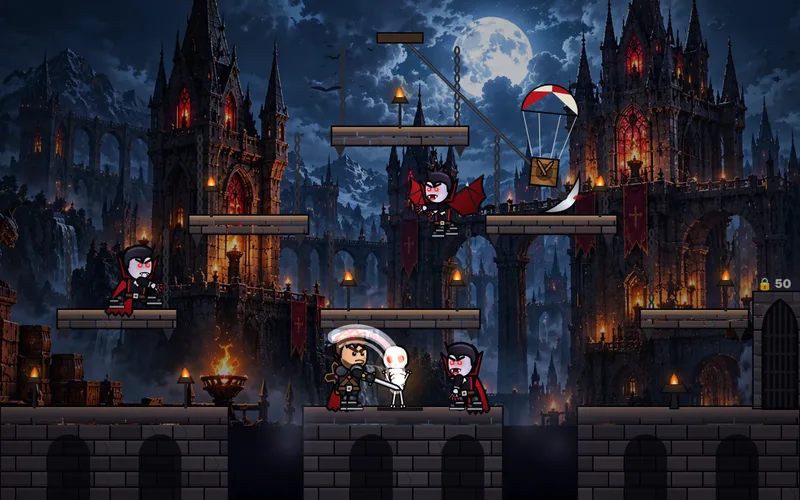
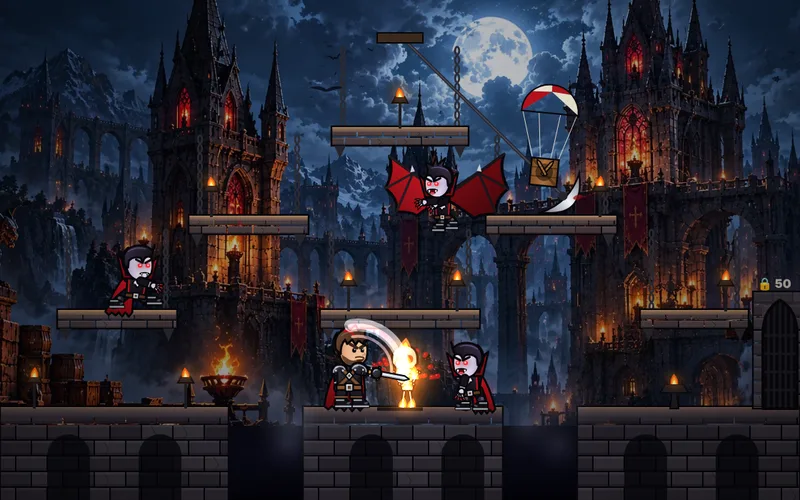
Vampyrium: cazador como la referencia, cartel de armas grande con pausa y muertes con fuego y sangre
- El cazador sin la cruz y más parecido a la referencia: hombreras grandes redondas con remaches, cuello
  alto, correas cruzadas con broche, cinturón ancho con hebilla grande, faldones de cuero, capa ancha y
  postura firme con las piernas abiertas
- Brazos de dos partes (hombro, codo y puño): el de atrás cuelga al costado con el puño cerrado y el del
  arma lleva el puño adelante con la espada para arriba; el corte baja desde atrás-arriba
- El cartel de armas es grande, dice "Juego en pausa" y oscurece todo
- El panel dice "Vampiros: N" y abajo "Vampiros voladores: N"
- Alas de los voladores más grandes; salen parejos vampiros y voladores
- Al morir: se vuelve esqueleto, se prende fuego y revienta: los huesos salen disparados prendidos fuego y
  la sangre salpica y queda manchando el piso

Claude-Session: https://claude.ai/code/session_01RzPWDgS2xZYFJ1nCwqQbRH

Changed region(s): [[0.4062, 0.63, 0.625, 0.84], [0.4688, 0.3, 0.6562, 0.48]]

diff --git a/src/features/games/vampyriumArt.ts b/src/features/games/vampyriumArt.ts
@@ -2,7 +2,7 @@
 // el borde de abajo de la pantalla es y = 0. Los personajes se dibujan en "puntos de diseño": 100 de alto con los
 // pies en 0 (y para arriba negativo, como el lienzo), al estilo chibi de las referencias: cabeza grande, contorno
 // oscuro grueso y sombreado de dos tonos.
-import { DOOR, GAPS, GROUND_Y, H, PLAYER_H, POWER_MAX, SURFACES, TRAPS, W, trapState, type Bone, type Corpse, type Crate, type Game, type Player, type Stake, type Vamp, type Weapon } from './vampyrium';
+import { DOOR, GAPS, GROUND_Y, H, PLAYER_H, SURFACES, TRAPS, W, trapState, BURN_AT, BLOW_AT, type Bone, type Corpse, type Crate, type Game, type Player, type Stake, type Vamp, type Weapon } from './vampyrium';
 
 const TAU = Math.PI * 2;
 const BIG = 1.3; // los personajes se dibujan más grandes que su caja de choque (la cabezota chibi)
@@ -65,101 +65,94 @@ function drawStakeItem(ctx: CanvasRenderingContext2D, len = 24) {
   blob(ctx, lin(ctx, -3, 0, 3, 0, [[0, '#6b4220'], [0.5, '#b07a45'], [1, '#5a3618']]), 2, () => { ctx.moveTo(-2.8, 6); ctx.lineTo(-2.8, -len + 7); ctx.lineTo(0, -len); ctx.lineTo(2.8, -len + 7); ctx.lineTo(2.8, 6); ctx.closePath(); });
   ctx.strokeStyle = 'rgba(40,20,8,0.6)'; ctx.lineWidth = 1; for (let i = 0; i < 3; i++) { ctx.beginPath(); ctx.moveTo(-2.4, 2 - i * 6); ctx.lineTo(2.4, 0 - i * 6); ctx.stroke(); }
 }
-function drawCross(ctx: CanvasRenderingContext2D, power: number, t: number) {
-  // la cruz negra con borde dorado encendido y una gema roja en el centro
-  const lit = 0.55 + 0.45 * power;
-  if (power >= 1) glow(ctx, 0, -14, 34, `rgba(255,190,90,${0.55 + 0.25 * Math.sin(t * 8)})`);
-  ctx.save();
-  ctx.shadowColor = '#ff9a3c'; ctx.shadowBlur = 0;
-  const path = () => { ctx.moveTo(-2.6, 6); ctx.lineTo(-2.6, -8); ctx.lineTo(-10, -8); ctx.lineTo(-12, -11); ctx.lineTo(-10, -14); ctx.lineTo(-2.6, -14); ctx.lineTo(-2.6, -22); ctx.lineTo(0, -25); ctx.lineTo(2.6, -22); ctx.lineTo(2.6, -14); ctx.lineTo(10, -14); ctx.lineTo(12, -11); ctx.lineTo(10, -8); ctx.lineTo(2.6, -8); ctx.lineTo(2.6, 6); ctx.closePath(); };
-  ctx.beginPath(); path(); ctx.lineWidth = 6; ctx.strokeStyle = INK; ctx.stroke();
-  ctx.lineWidth = 2.6; ctx.strokeStyle = `rgba(255,${150 + 60 * lit},${60 + 40 * lit},${lit})`; ctx.stroke();
-  ctx.fillStyle = '#16141b'; ctx.fill();
-  ctx.fillStyle = '#e0313a'; ctx.beginPath(); ctx.moveTo(0, -14); ctx.lineTo(2.4, -11); ctx.lineTo(0, -8); ctx.lineTo(-2.4, -11); ctx.closePath(); ctx.fill();
+// Brazo de dos partes (hombro → codo → puño). Ángulos desde la vertical: 0 colgando, + hacia adelante, π arriba.
+// Manga negra con correa de cuero, guantelete con bandas de metal y el puño grande cerrado.
+function hunterArm(ctx: CanvasRenderingContext2D, sx: number, sy: number, a1: number, a2: number, item: Weapon | 'none', itemA: number, dark = false) {
+  const L1 = 13, L2 = 13, ex = sx + Math.sin(a1) * L1, ey = sy + Math.cos(a1) * L1, hx = ex + Math.sin(a2) * L2, hy = ey + Math.cos(a2) * L2;
+  limb(ctx, sx, sy, ex, ey, 10, dark ? '#131317' : HUNTER.armor);
+  // correa de cuero en el brazo
+  ctx.save(); ctx.translate((sx + ex) / 2, (sy + ey) / 2); ctx.rotate(-a1); blob(ctx, HUNTER.strap, 1.6, () => ctx.roundRect(-6, -1.6, 12, 3.2, 1)); ctx.restore();
+  // guantelete: antebrazo ancho con bandas de metal
+  ctx.save(); ctx.translate(ex, ey); ctx.rotate(-a2);
+  blob(ctx, lin(ctx, -7, 0, 7, 0, [[0, '#2c2c34'], [0.5, '#4a4a56'], [1, '#1a1a20']]), 2.6, () => { ctx.moveTo(-5, 0); ctx.lineTo(5, 0); ctx.lineTo(7.5, L2 - 1); ctx.lineTo(-7.5, L2 - 1); ctx.closePath(); });
+  for (const by of [3.5, 8.5]) { ctx.fillStyle = '#b9bcc8'; ctx.fillRect(-6.2 - by * 0.12, by, 12.4 + by * 0.24, 1.8); }
   ctx.restore();
+  // el arma (empuñada en el puño)
+  if (item !== 'none') { ctx.save(); ctx.translate(hx, hy); ctx.rotate(itemA); if (item === 'sword') drawSword(ctx); else drawStakeItem(ctx); ctx.restore(); }
+  // puño
+  blob(ctx, lin(ctx, hx - 7, hy - 7, hx + 7, hy + 7, [[0, '#45454f'], [1, '#141418']]), 2.6, () => ctx.ellipse(hx, hy, 7.6, 7, -a2, 0, TAU));
+  ctx.strokeStyle = 'rgba(210,214,224,0.75)'; ctx.lineWidth = 1.4; ctx.beginPath(); ctx.arc(hx, hy, 4.6, -a2 + 0.2 - Math.PI / 2, -a2 + 1.6 - Math.PI / 2); ctx.stroke();
 }
-// El brazo que ataca: ángulo del brazo (0 = colgando, + adelante) y lo que tiene en la mano.
-function hunterArm(ctx: CanvasRenderingContext2D, sx: number, sy: number, a: number, item: Weapon | 'none', itemA: number) {
-  const L = 21, hx = sx + Math.sin(a) * L, hy = sy + Math.cos(a) * L;
-  limb(ctx, sx, sy, hx, hy, 9.5, HUNTER.armor);
-  // brazal de metal
-  const mx = sx + Math.sin(a) * L * 0.6, my = sy + Math.cos(a) * L * 0.6;
-  ctx.save(); ctx.translate(mx, my); ctx.rotate(-a);
-  blob(ctx, HUNTER.metal, 2, () => ctx.roundRect(-6, -3.5, 12, 7, 2));
-  ctx.restore();
-  ctx.save(); ctx.translate(hx, hy); ctx.rotate(itemA);
-  if (item === 'sword') drawSword(ctx); else if (item === 'stakes') drawStakeItem(ctx);
-  ctx.restore();
-  blob(ctx, '#232229', 2.5, () => ctx.arc(hx, hy, 6.2, 0, TAU)); // el guante
-  ctx.fillStyle = 'rgba(255,255,255,0.2)'; ctx.beginPath(); ctx.arc(hx - 1.5, hy - 2, 2, 0, TAU); ctx.fill();
+function pauldron(ctx: CanvasRenderingContext2D, x: number, y: number, rx: number, ry: number, rot: number) {
+  blob(ctx, lin(ctx, x - rx, y - ry, x + rx, y + ry, [[0, '#5c5c68'], [0.45, '#25252c'], [1, '#0e0e12']]), 3, () => ctx.ellipse(x, y, rx, ry, rot, Math.PI * 0.95, Math.PI * 2.05));
+  ctx.strokeStyle = '#a9acb8'; ctx.lineWidth = 1.8; ctx.beginPath(); ctx.ellipse(x, y + 1, rx - 2.5, ry - 2.5, rot, Math.PI * 1.05, Math.PI * 1.95); ctx.stroke();
+  ctx.fillStyle = '#c4c7d2'; for (const k of [-0.45, 0.45]) { ctx.beginPath(); ctx.arc(x + rx * k, y - ry * 0.05, 1.5, 0, TAU); ctx.fill(); } // remaches
+  ctx.fillStyle = 'rgba(255,255,255,0.35)'; ctx.beginPath(); ctx.ellipse(x - rx * 0.35, y - ry * 0.55, rx * 0.28, ry * 0.16, -0.4, 0, TAU); ctx.fill();
 }
 export function drawHunter(ctx: CanvasRenderingContext2D, p: Player, g: Game, t: number) {
   const moving = Math.abs(p.vx) > 0.6 && p.onGround, air = !p.onGround;
   const w = p.walkT * Math.PI;
   const swing = moving ? Math.sin(w) : 0;
-  const bob = moving ? Math.abs(Math.cos(w)) * 2.2 : Math.sin(t * 2.4) * 0.8;
+  const bob = moving ? Math.abs(Math.cos(w)) * 2.2 : Math.sin(t * 2.4) * 0.7;
   const squash = p.landT > 0 ? 1 - p.landT * 0.6 : 1;
-  ctx.save(); ctx.scale(1, squash); ctx.translate(0, air ? 0 : -bob + 2);
-  // capa (atrás): flamea con la velocidad
-  const fl = Math.sin(t * 7 + p.x) * 3 + Math.min(14, Math.abs(p.vx) * 1.6) + (air ? 6 : 0), lift = air ? (p.vy > 0 ? 8 : -6) : 0;
-  blob(ctx, lin(ctx, 0, -56, -30, 0, [[0, HUNTER.cape], [1, HUNTER.capeD]]), 3, () => {
-    ctx.moveTo(-8, -56); ctx.quadraticCurveTo(-22 - fl * 0.6, -36 - lift, -30 - fl, -4 - lift * 0.6);
-    for (let i = 0; i < 4; i++) { const x0 = -30 - fl + i * (8 + fl * 0.22); ctx.quadraticCurveTo(x0 + 4, 4 - lift * 0.5 + (i % 2) * 3, x0 + 8 + fl * 0.22, -2 - lift * 0.4); }
-    ctx.lineTo(4, -10); ctx.lineTo(8, -54); ctx.closePath();
+  ctx.save(); ctx.scale(1, squash); ctx.translate(0, air ? 0 : -bob + 1);
+  // capa ancha (se ve a los dos costados del cuerpo), flamea con la velocidad
+  const fl = Math.sin(t * 6 + p.x) * 2.5 + Math.min(14, Math.abs(p.vx) * 1.6) + (air ? 6 : 0), lift = air ? (p.vy > 0 ? 8 : -6) : 0;
+  blob(ctx, lin(ctx, 0, -60, -20, 0, [[0, HUNTER.cape], [1, HUNTER.capeD]]), 3, () => {
+    ctx.moveTo(-14, -62); ctx.quadraticCurveTo(-30 - fl * 0.5, -40 - lift, -36 - fl, -4 - lift * 0.6);
+    const n = 5;
+    for (let i = 0; i < n; i++) { const x0 = -36 - fl + i * (58 + fl) / n, x1 = -36 - fl + (i + 1) * (58 + fl) / n; ctx.lineTo((x0 + x1) / 2, 2 - lift * 0.4 + Math.sin(t * 5 + i) * 1.5); ctx.lineTo(x1, -4 - lift * 0.4); }
+    ctx.quadraticCurveTo(26, -30, 18, -62); ctx.closePath();
   });
-  // brazo de atrás con la cruz
-  const backA = air ? -0.9 : -0.25 - swing * 0.5;
-  {
-    const sx = -9, sy = -52, L = 20, hx = sx + Math.sin(backA) * L, hy = sy + Math.cos(backA) * L;
-    limb(ctx, sx, sy, hx, hy, 9, '#141418');
-    ctx.save(); ctx.translate(hx, hy); ctx.rotate(-backA * 0.3 - 0.25); ctx.scale(1.35, 1.35); drawCross(ctx, g.power / POWER_MAX, t); ctx.restore();
-    blob(ctx, '#1a191f', 2.5, () => ctx.arc(hx, hy, 5.8, 0, TAU));
+  ctx.fillStyle = 'rgba(40,0,6,0.45)'; ctx.beginPath(); ctx.moveTo(-10, -58); ctx.quadraticCurveTo(-18, -30, -24 - fl * 0.6, -6); ctx.lineTo(16, -8); ctx.quadraticCurveTo(18, -34, 14, -58); ctx.closePath(); ctx.fill(); // el forro, más oscuro
+  // brazo de atrás: cuelga al costado con el puño cerrado
+  const backA1 = air ? -0.9 : -0.18 - swing * 0.45, backA2 = air ? -0.3 : 0.12 - swing * 0.3;
+  hunterArm(ctx, -12, -55, backA1, backA2, 'none', 0, true);
+  // piernas abiertas (postura firme)
+  const pants = { pant: '#16161b', pad: '#33333d', boot: '#121216', trim: '#a5a8b5' };
+  if (air) { leg(ctx, -7, -32, 15, 14, -0.7, 0.4, pants, 16); leg(ctx, 8, -32, 15, 14, 0.9, -0.3, pants, 16); }
+  else {
+    leg(ctx, -7, -32, 15, 14, -0.22 - swing * 0.55, -0.12 - swing * 0.55 + Math.max(0, -swing) * 0.5, pants, 16);
+    leg(ctx, 8, -32, 15, 14, 0.22 + swing * 0.55, 0.12 + swing * 0.55 + Math.max(0, swing) * 0.5, pants, 16);
   }
-  // piernas (atrás y adelante)
-  const pants = { pant: '#16161b', pad: '#2d2d35', boot: '#121216', trim: '#9da0ad' };
-  if (air) {
-    leg(ctx, -5, -30, 14, 14, -0.7, 0.4, pants);
-    leg(ctx, 5, -30, 14, 14, 0.9, -0.3, pants);
-  } else {
-    leg(ctx, -4, -30, 15, 14, -swing * 0.6, -swing * 0.6 + Math.max(0, -swing) * 0.5, pants);
-    leg(ctx, 5, -30, 15, 14, swing * 0.6, swing * 0.6 + Math.max(0, swing) * 0.5, pants);
+  // faldones del saco (cuero oscuro con ribete marrón), partidos en el medio
+  for (const [x0, x1, sk] of [[-17, -1, -1], [1, 18, 1]] as const) {
+    const dx = sk * (swing * 3);
+    blob(ctx, lin(ctx, 0, -32, 0, -14, [[0, '#26232a'], [1, '#141217']]), 2.6, () => { ctx.moveTo(x0, -31); ctx.lineTo(x1, -31); ctx.lineTo(x1 + sk * 3 + dx, -15); ctx.lineTo(x0 + sk * 1 + dx, -15); ctx.closePath(); });
+    ctx.strokeStyle = HUNTER.strapL; ctx.lineWidth = 1.6; ctx.beginPath(); ctx.moveTo(x1 + sk * 2.4 + dx - sk * 1.5, -17); ctx.lineTo(x0 + sk + dx + 1.5 * sk, -17); ctx.stroke();
   }
-  // torso: armadura negra, correas cruzadas, cinturón con hebilla
-  blob(ctx, lin(ctx, -14, -58, 16, -28, [[0, HUNTER.armorL], [0.5, HUNTER.armor], [1, '#101014']]), 3, () => ctx.roundRect(-14, -59, 29, 32, 7));
-  ctx.fillStyle = '#2a2a33'; ctx.beginPath(); ctx.moveTo(-10, -55); ctx.lineTo(11, -55); ctx.lineTo(9, -38); ctx.lineTo(0, -34); ctx.lineTo(-8, -38); ctx.closePath(); ctx.fill();
-  ctx.strokeStyle = 'rgba(255,255,255,0.18)'; ctx.lineWidth = 1.5; ctx.beginPath(); ctx.moveTo(-8, -53); ctx.lineTo(8, -53); ctx.stroke();
-  for (const [a, b] of [[-12, 12], [13, -11]] as const) { ctx.strokeStyle = INK; ctx.lineWidth = 7; ctx.beginPath(); ctx.moveTo(a, -58); ctx.lineTo(b, -33); ctx.stroke(); ctx.strokeStyle = HUNTER.strap; ctx.lineWidth = 4.5; ctx.stroke(); }
-  blob(ctx, HUNTER.strapL, 2, () => { ctx.moveTo(1, -50); ctx.lineTo(5, -46); ctx.lineTo(1, -42); ctx.lineTo(-3, -46); ctx.closePath(); });
-  blob(ctx, HUNTER.strap, 2.5, () => ctx.roundRect(-15, -33, 31, 7, 2));
-  blob(ctx, '#c9ccd6', 2, () => ctx.roundRect(-3.5, -34.5, 9, 9.5, 1.5)); ctx.fillStyle = HUNTER.strap; ctx.fillRect(-0.8, -31.5, 3.6, 3.5);
-  blob(ctx, '#24242b', 2, () => { ctx.moveTo(-13, -27); ctx.lineTo(-4, -27); ctx.lineTo(-5, -20); ctx.lineTo(-12, -21); ctx.closePath(); });
-  blob(ctx, '#24242b', 2, () => { ctx.moveTo(4, -27); ctx.lineTo(14, -27); ctx.lineTo(13, -21); ctx.lineTo(5, -20); ctx.closePath(); });
-  // hombrera de atrás
-  blob(ctx, lin(ctx, -18, -62, -4, -46, [[0, '#55555f'], [1, '#202027']]), 2.5, () => ctx.ellipse(-10, -55, 9, 8, -0.3, 0, TAU));
-  // cabeza
-  drawHunterHead(ctx, t, p.hurtT > 0);
-  // hombrera de adelante
-  blob(ctx, lin(ctx, 4, -64, 20, -46, [[0, '#6c6c78'], [1, '#24242b']]), 2.5, () => ctx.ellipse(12, -55, 10, 9, 0.3, 0, TAU));
-  ctx.strokeStyle = '#a7a9b5'; ctx.lineWidth = 1.6; ctx.beginPath(); ctx.arc(13, -56, 4, 3.6, 6.4); ctx.stroke();
-  // brazo de adelante con el arma (ángulo: 0 colgando, + hacia adelante, π arriba)
+  // torso: armadura negra, cuello alto, correas cruzadas con broche, cinturón ancho con hebilla grande
+  blob(ctx, lin(ctx, -16, -62, 18, -28, [[0, '#3e3e48'], [0.5, HUNTER.armor], [1, '#0f0f13']]), 3, () => ctx.roundRect(-16, -63, 34, 34, 8));
+  blob(ctx, '#2e2e36', 2.4, () => { ctx.moveTo(-8, -66); ctx.lineTo(10, -66); ctx.lineTo(12, -58); ctx.lineTo(1, -54); ctx.lineTo(-10, -58); ctx.closePath(); }); // cuello alto
+  ctx.fillStyle = '#26262e'; ctx.beginPath(); ctx.moveTo(-12, -54); ctx.lineTo(14, -54); ctx.lineTo(11, -36); ctx.lineTo(1, -33); ctx.lineTo(-9, -36); ctx.closePath(); ctx.fill();
+  ctx.strokeStyle = 'rgba(255,255,255,0.16)'; ctx.lineWidth = 1.4; ctx.beginPath(); ctx.moveTo(-9, -52); ctx.lineTo(10, -52); ctx.moveTo(-8, -44); ctx.lineTo(-2, -41); ctx.stroke();
+  for (const [a, b] of [[-14, 15], [16, -13]] as const) { ctx.strokeStyle = INK; ctx.lineWidth = 7.5; ctx.beginPath(); ctx.moveTo(a, -61); ctx.lineTo(b, -33); ctx.stroke(); ctx.strokeStyle = HUNTER.strap; ctx.lineWidth = 5; ctx.stroke(); ctx.strokeStyle = HUNTER.strapL; ctx.lineWidth = 1.2; ctx.stroke(); }
+  blob(ctx, '#5a3a24', 2, () => { ctx.moveTo(1, -53); ctx.lineTo(6.5, -47); ctx.lineTo(1, -41); ctx.lineTo(-4.5, -47); ctx.closePath(); });
+  ctx.strokeStyle = '#c9ccd6'; ctx.lineWidth = 1.6; ctx.beginPath(); ctx.moveTo(1, -50.5); ctx.lineTo(4, -47); ctx.lineTo(1, -43.5); ctx.lineTo(-2, -47); ctx.closePath(); ctx.stroke();
+  blob(ctx, lin(ctx, 0, -34, 0, -27, [[0, HUNTER.strapL], [1, HUNTER.strap]]), 2.6, () => ctx.roundRect(-17, -34, 36, 7.5, 2));
+  blob(ctx, lin(ctx, -5, -36, 7, -25, [[0, '#eef0f6'], [1, '#8e919d']]), 2.2, () => ctx.roundRect(-4.5, -36, 11, 11, 1.8)); ctx.fillStyle = '#5a3a24'; ctx.fillRect(-1.2, -32.8, 4.4, 4.6);
+  // hombrera de atrás, cabeza y hombrera de adelante (grandes y redondas, como la referencia)
+  pauldron(ctx, -13, -54, 11, 9.5, -0.25);
+  ctx.save(); ctx.translate(0, -4); drawHunterHead(ctx, t, p.hurtT > 0); ctx.restore();
+  // brazo de adelante con el arma: quieto, el puño adelante a la altura del pecho y la hoja para arriba
   const at = p.attackT;
-  let armA = air ? 1.2 : 0.55 + swing * 0.4, itemA = air ? 0.5 : 0.25;
-  const SW0 = 3.7, SW1 = 0.85; // la espada baja de atrás-arriba hacia adelante
+  let a1 = air ? 1.0 : 0.3 + swing * 0.3, a2 = air ? 1.9 : 1.55 + swing * 0.2, itemA = 0.12;
+  const SW0 = 3.3, SW1 = 1.15;
   if (at >= 0) {
-    if (p.attackWeapon === 'sword') { const k = Math.min(1, at / 0.14), e = 1 - (1 - k) * (1 - k); armA = SW0 + (SW1 - SW0) * e; itemA = Math.PI - armA; }
-    else { const k = Math.min(1, at / 0.12); armA = 3.4 - k * 1.9; itemA = Math.PI - armA; }
+    if (p.attackWeapon === 'sword') { const k = Math.min(1, at / 0.14), e = 1 - (1 - k) * (1 - k); a1 = SW0 + (SW1 - SW0) * e; a2 = a1 + 0.5 * (1 - e) - 0.1; itemA = Math.PI - a2; }
+    else { const k = Math.min(1, at / 0.12); a1 = 2.8 - k * 1.4; a2 = a1 - 0.3 + k * 0.3; itemA = Math.PI - a2; }
   }
   const item: Weapon | 'none' = at >= 0 && p.attackWeapon === 'stakes' && at > 0.1 ? 'none' : g.weapon;
-  // la estela de la espada (por detrás del brazo)
-  if (at >= 0.02 && at < 0.24 && p.attackWeapon === 'sword') {
-    const k = Math.min(1, at / 0.14), e = 1 - (1 - k) * (1 - k), a1 = SW0 + (SW1 - SW0) * e, fade = at > 0.14 ? 1 - (at - 0.14) / 0.1 : 1;
+  if (at >= 0.02 && at < 0.24 && p.attackWeapon === 'sword') { // la estela de la espada
+    const k = Math.min(1, at / 0.14), e = 1 - (1 - k) * (1 - k), aNow = SW0 + (SW1 - SW0) * e, fade = at > 0.14 ? 1 - (at - 0.14) / 0.1 : 1;
     ctx.save(); ctx.globalCompositeOperation = 'lighter'; ctx.lineCap = 'round';
-    for (const [r, wdt, col] of [[60, 18, `rgba(255,255,255,${0.5 * fade})`], [58, 8, `rgba(255,90,90,${0.65 * fade})`], [44, 4, `rgba(255,220,220,${0.5 * fade})`]] as const) {
-      ctx.strokeStyle = col; ctx.lineWidth = wdt; ctx.beginPath(); ctx.arc(11, -52, r, Math.PI / 2 - SW0, Math.PI / 2 - a1, false); ctx.stroke();
+    for (const [r, wdt, col] of [[64, 18, `rgba(255,255,255,${0.5 * fade})`], [62, 8, `rgba(255,90,90,${0.65 * fade})`], [48, 4, `rgba(255,220,220,${0.5 * fade})`]] as const) {
+      ctx.strokeStyle = col; ctx.lineWidth = wdt; ctx.beginPath(); ctx.arc(13, -55, r, Math.PI / 2 - SW0, Math.PI / 2 - aNow, false); ctx.stroke();
     }
     ctx.restore();
   }
-  hunterArm(ctx, 11, -52, armA, item, itemA);
+  hunterArm(ctx, 14, -55, a1, a2, item, itemA);
+  pauldron(ctx, 15, -55, 12.5, 10.5, 0.25);
   ctx.restore();
 }
 function drawHunterHead(ctx: CanvasRenderingContext2D, t: number, hurt: boolean) {
@@ -320,11 +313,11 @@ export function drawFlyer(ctx: CanvasRenderingContext2D, v: Vamp, t: number) {
   const flap = diving ? 1 : Math.sin(v.walkT * 11 + v.id);
   ctx.save(); ctx.translate(0, -48 + Math.sin(v.walkT * 11 + v.id + 1) * 2);
   if (diving) ctx.rotate(0.35);
-  ctx.save(); ctx.translate(-4, -8); ctx.scale(-1, 1); wing(ctx, flap, true); ctx.restore();
+  ctx.save(); ctx.translate(-4, -8); ctx.scale(-1.55, 1.55); wing(ctx, flap, true); ctx.restore(); // alas grandes
   // piernas colgando
   leg(ctx, -5, 22, 12, 12, -0.9, -0.2, VAMP_PANTS, 12); leg(ctx, 6, 22, 12, 12, -0.4, 0.3, VAMP_PANTS, 12);
   ctx.save(); ctx.translate(0, 52); ctx.scale(0.86, 0.86); ctx.translate(0, -52); ctx.translate(0, 22 + 26); vampBody(ctx, t); ctx.restore();
-  ctx.save(); ctx.translate(-2, -10); ctx.scale(0.9, 0.9); wing(ctx, flap * 0.9, false); ctx.restore();
+  ctx.save(); ctx.translate(-2, -10); ctx.scale(1.45, 1.45); wing(ctx, flap * 0.9, false); ctx.restore();
   ctx.save(); ctx.translate(2, 46); vampHead(ctx, t + v.id, true, true); ctx.restore();
   // garras adelante
   for (const [sx, a, d] of [[-4, 1.2, '#100e14'], [12, 1.45, VAMP.coat]] as const) { const sy = -2, hx = sx + Math.sin(a) * 18, hy = sy + Math.cos(a) * 18; limb(ctx, sx, sy, hx, hy, 8, d); claw(ctx, hx, hy, Math.PI / 2 - a); }
@@ -365,10 +358,11 @@ export function drawBone(ctx: CanvasRenderingContext2D, b: Bone, v: View) {
   else if (b.kind === 'pelvis') pelvis(ctx);
   else bone(ctx, b.kind === 'leg' ? 24 : 18, 4.2);
   ctx.restore();
+  if (b.t < 1) { ctx.save(); ctx.globalCompositeOperation = 'lighter'; flame(ctx, X(v, b.x), Y(v, b.y), v.s * 0.16 * (1 - b.t), b.t * 9 + b.x, b.y); ctx.restore(); } // los huesos salen prendidos fuego
 }
 // El vampiro se vuelve esqueleto: la carne se desvanece, el esqueleto brilla naranja y tiembla.
 export function drawCorpse(ctx: CanvasRenderingContext2D, c: Corpse, v: View, t: number) {
-  const k = (c.kind === 'walker' ? 1.8 : 1.7) * BIG * v.s / 100, f = Math.min(1, c.t / 0.3);
+  const k = (c.kind === 'walker' ? 1.8 : 1.7) * BIG * v.s / 100, f = Math.min(1, c.t / BURN_AT), burn = Math.max(0, Math.min(1, (c.t - BURN_AT) / (BLOW_AT - BURN_AT)));
   ctx.save(); ctx.translate(X(v, c.x) + Math.sin(c.t * 90) * f * 2.5, Y(v, c.y)); ctx.scale(k * c.face, k);
   glow(ctx, 0, -50, 70, `rgba(255,140,40,${0.5 * f})`);
   if (f < 1) {
@@ -388,7 +382,23 @@ export function drawCorpse(ctx: CanvasRenderingContext2D, c: Corpse, v: View, t:
   ctx.save(); ctx.translate(-12, -46); ctx.rotate(1.1); bone(ctx, 20, 3.8); ctx.restore();
   ctx.save(); ctx.translate(16, -46); ctx.rotate(-1.1 + Math.sin(c.t * 40) * 0.2); bone(ctx, 20, 3.8); ctx.restore();
   ctx.save(); ctx.translate(4, -70); ctx.scale(1.35, 1.35); skull(ctx, '#ff3a2a'); ctx.restore();
+  // se prende fuego: llamas que suben por todo el esqueleto
+  if (burn > 0) {
+    ctx.globalAlpha = 1;
+    ctx.fillStyle = `rgba(40,10,0,${0.45 * burn})`; ctx.beginPath(); ctx.ellipse(0, -45, 22, 48, 0, 0, TAU); ctx.fill(); // tostado
+    ctx.save(); ctx.globalCompositeOperation = 'lighter';
+    glow(ctx, 0, -45, 80, `rgba(255,110,20,${0.6 * burn})`);
+    for (const [fx, fy, sz] of [[-6, -2, 9], [7, -2, 9], [0, -28, 11], [-10, -44, 10], [12, -44, 10], [2, -60, 12], [4, -82, 14]] as const) flame(ctx, fx, fy, sz * (0.5 + burn), t * 1.4, fx + fy);
+    ctx.restore();
+  }
   ctx.restore();
+}
+export function drawBlood(ctx: CanvasRenderingContext2D, g: Game, v: View) {
+  for (const d of g.drops) {
+    const x = X(v, d.x), y = Y(v, d.y), r = Math.max(1.2, d.r * v.s);
+    if (d.stuck) { ctx.fillStyle = `rgba(120,0,10,${Math.min(0.85, (7 - d.t) / 2)})`; ctx.beginPath(); ctx.ellipse(x, y - 1, r * 1.6, r * 0.45, 0, 0, TAU); ctx.fill(); }
+    else { ctx.fillStyle = '#b0101c'; ctx.beginPath(); ctx.ellipse(x, y, r, r * 1.3, Math.atan2(-d.vy, d.vx) + Math.PI / 2, 0, TAU); ctx.fill(); ctx.fillStyle = 'rgba(255,120,120,0.6)'; ctx.beginPath(); ctx.arc(x - r * 0.3, y - r * 0.3, r * 0.35, 0, TAU); ctx.fill(); }
+  }
 }
 export function drawSparks(ctx: CanvasRenderingContext2D, g: Game, v: View) {
   ctx.save(); ctx.globalCompositeOperation = 'lighter';
@@ -636,6 +646,7 @@ export function drawGame(ctx: CanvasRenderingContext2D, g: Game, w: number, h: n
   drawDoor(ctx, g, v, t);
   drawTraps(ctx, g, v, t);
   for (const c of g.crates) drawCrate(ctx, c, v, t);
+  drawBlood(ctx, g, v);
   for (const b of g.bones) drawBone(ctx, b, v);
   for (const c of g.corpses) drawCorpse(ctx, c, v, t);
   // vampiros

diff --git a/src/features/games/vampyrium.ts b/src/features/games/vampyrium.ts
@@ -63,6 +63,9 @@ export interface Corpse { id: number; kind: VampKind; x: number; y: number; face
 export type BoneKind = 'skull' | 'jaw' | 'ribs' | 'pelvis' | 'arm' | 'leg' | 'spine';
 export interface Bone { kind: BoneKind; x: number; y: number; vx: number; vy: number; a: number; va: number; t: number; rest: boolean }
 export interface Spark { x: number; y: number; vx: number; vy: number; t: number; life: number; hue: number }
+// Sangre que salpica: gotas que vuelan y quedan como manchas en el piso.
+export interface Drop { x: number; y: number; vx: number; vy: number; r: number; t: number; stuck: boolean }
+export const BURN_AT = 0.3, BLOW_AT = 0.85; // el vampiro se vuelve esqueleto, se prende fuego y a los 0,85 s revienta
 export interface Stake { x: number; y: number; vx: number; vy: number; t: number; stuck: boolean }
 export type CrateKind = 'stakes' | 'heart' | 'garlic';
 export interface Crate { id: number; kind: CrateKind; x: number; y: number; vy: number; landed: boolean; t: number; surface: Surface | null }
@@ -79,7 +82,7 @@ export type GameEvent =
 export type Phase = 'play' | 'menu' | 'dead' | 'cleared' | 'won' | 'over';
 export interface Game {
   time: number; real: number; phase: Phase; phaseT: number;
-  player: Player; vamps: Vamp[]; corpses: Corpse[]; bones: Bone[]; sparks: Spark[]; stakes: Stake[]; crates: Crate[];
+  player: Player; vamps: Vamp[]; corpses: Corpse[]; bones: Bone[]; sparks: Spark[]; drops: Drop[]; stakes: Stake[]; crates: Crate[];
   kills: Record<VampKind, number>; total: number; voidKills: number; trapKills: number;
   weapon: Weapon; ammo: number; menu: { sel: number; t: number }; lastTap: number;
   combo: { n: number; t: number; best: number }; power: number; holyT: number; garlicT: number;
@@ -97,7 +100,7 @@ export function newPlayer(): Player {
 }
 export function newGame(seed = Math.floor(Math.random() * 1e9)): Game {
   return {
-    time: 0, real: 0, phase: 'play', phaseT: 0, player: newPlayer(), vamps: [], corpses: [], bones: [], sparks: [], stakes: [], crates: [],
+    time: 0, real: 0, phase: 'play', phaseT: 0, player: newPlayer(), vamps: [], corpses: [], bones: [], sparks: [], drops: [], stakes: [], crates: [],
     kills: { walker: 0, flyer: 0 }, total: 0, voidKills: 0, trapKills: 0, weapon: 'sword', ammo: START_STAKES, menu: { sel: 0, t: 0 }, lastTap: -9,
     combo: { n: 0, t: 0, best: 0 }, power: 0, holyT: 0, garlicT: 0, door: { open: false, t: 0 }, spawnT: 1.6, crateT: 9, nextId: 1, wave: 1, bloodMoon: false,
     flash: 0, shake: 0, events: [], rand: mulberry(seed), stats: { slashes: 0, throws: 0, hits: 0, crates: 0, falls: 0 },
@@ -227,7 +230,9 @@ function hurt(g: Game, fromX: number) {
 
 // ---------------------------------------------------------------- Vampiros
 function spawn(g: Game) {
-  const r = g.rand, flyerChance = Math.min(0.42, 0.22 + g.total * 0.006);
+  // parejo: sale el tipo del que hay menos (muertos + vivos); si están iguales, al azar
+  const r = g.rand, count = (k: VampKind) => g.kills[k] + g.vamps.filter(v => v.kind === k).length;
+  const flyerChance = count('flyer') < count('walker') ? 1 : count('flyer') > count('walker') ? 0 : 0.5;
   const speedK = g.bloodMoon ? 1.25 : 1;
   const base = { id: g.nextId++, vx: 0, vy: 0, t: 0, onGround: false, surface: null, walkT: 0, cool: 1 + r(), jumpT: 0, dropT: 0, hit: false };
   if (r() < flyerChance) {
@@ -348,14 +353,16 @@ function updateRemains(g: Game, dt: number) {
   const r = g.rand;
   for (const c of [...g.corpses]) {
     c.t += dt;
-    if (r() < dt * 40) g.sparks.push({ x: c.x + (r() - 0.5) * 0.9, y: c.y + 0.3 + r() * 1.6, vx: (r() - 0.5) * 3, vy: 1 + r() * 3, t: 0, life: 0.4 + r() * 0.4, hue: 30 + r() * 30 });
-    if (c.t >= 0.55) {
+    const fly = c.kind === 'flyer' ? -0.6 : 0;
+    if (r() < dt * (c.t > BURN_AT ? 90 : 40)) g.sparks.push({ x: c.x + (r() - 0.5) * 0.9, y: c.y + fly + 0.3 + r() * 1.6, vx: (r() - 0.5) * 3, vy: 1 + r() * 4, t: 0, life: 0.4 + r() * 0.4, hue: 20 + r() * 35 });
+    if (c.t >= BLOW_AT) {
       g.corpses.splice(g.corpses.indexOf(c), 1);
       const hs: Record<BoneKind, number> = { skull: 1.55, jaw: 1.35, ribs: 1.05, spine: 0.9, pelvis: 0.7, arm: 1.1, leg: 0.4 };
       for (const k of BONES) {
-        const a = (r() - 0.5) * 2.4 + Math.PI / 2, sp = 6 + r() * 7;
-        g.bones.push({ kind: k, x: c.x + (r() - 0.5) * 0.4, y: c.y + hs[k], vx: Math.cos(a) * sp, vy: Math.sin(a) * sp + 3, a: r() * 6, va: (r() - 0.5) * 22, t: 0, rest: false });
+        const a = (r() - 0.5) * 2.8 + Math.PI / 2, sp = 9 + r() * 9;
+        g.bones.push({ kind: k, x: c.x + (r() - 0.5) * 0.4, y: c.y + fly + hs[k], vx: Math.cos(a) * sp, vy: Math.sin(a) * sp + 3, a: r() * 6, va: (r() - 0.5) * 30, t: 0, rest: false });
       }
+      for (let i = 0; i < 34; i++) { const a = r() * Math.PI, sp = 3 + r() * 10; g.drops.push({ x: c.x + (r() - 0.5) * 0.5, y: c.y + fly + 0.6 + r() * 1.2, vx: Math.cos(a) * sp, vy: Math.sin(a) * sp, r: 0.05 + r() * 0.1, t: 0, stuck: false }); }
       for (let i = 0; i < 26; i++) { const a = r() * Math.PI * 2, sp = 3 + r() * 9; g.sparks.push({ x: c.x, y: c.y + 1, vx: Math.cos(a) * sp, vy: Math.sin(a) * sp + 2, t: 0, life: 0.5 + r() * 0.6, hue: r() < 0.3 ? 0 : 35 + r() * 25 }); }
       emit(g, { type: 'bones', x: c.x, y: c.y });
     }
@@ -370,6 +377,12 @@ function updateRemains(g: Game, dt: number) {
   }
   for (const s of [...g.sparks]) { s.t += dt; s.vy -= 9 * dt; s.x += s.vx * dt; s.y += s.vy * dt; if (s.t > s.life) g.sparks.splice(g.sparks.indexOf(s), 1); }
   if (g.sparks.length > 400) g.sparks.splice(0, g.sparks.length - 400);
+  for (const d of [...g.drops]) {
+    d.t += dt;
+    if (!d.stuck) { d.vy -= GRAV * 0.7 * dt; const prev = d.y; d.x += d.vx * dt; d.y += d.vy * dt; if (d.vy < 0) { const s = surfaceUnder(d.x, 0.05, prev, d.y, false); if (s) { d.y = s.y; d.stuck = true; d.t = 0; d.r *= 1.8; } } }
+    if ((d.stuck && d.t > 7) || d.y < -6) g.drops.splice(g.drops.indexOf(d), 1);
+  }
+  if (g.drops.length > 500) g.drops.splice(0, g.drops.length - 500);
 }
 
 // ---------------------------------------------------------------- Un paso del juego

diff --git a/src/styles/main.css b/src/styles/main.css
@@ -1561,16 +1561,19 @@ html:has(.games-title){overflow-x:hidden}
 .vamp .trepa-record{background:linear-gradient(180deg,#fca5a5,#991b1b);color:#fff;text-shadow:0 2px 0 #450a0a;font-size:clamp(1.1rem,2.6vw,1.7rem)}
 .vamp-combo{position:absolute;top:20%;right:4%;font:400 clamp(1.6rem,4vw,2.8rem)/1 "Vamp Gothic",Georgia,serif;color:#fde68a;text-shadow:0 0 12px #f59e0b,0 3px 0 #7c2d12;animation:vamp-pop .35s ease-out;pointer-events:none}
 @keyframes vamp-pop{from{transform:scale(1.8) rotate(-6deg);opacity:0}to{transform:none;opacity:1}}
-.vamp-arsenal{position:absolute;left:50%;top:50%;transform:translate(-50%,-50%);min-width:min(320px,80%);padding:1rem 1.2rem;background:linear-gradient(180deg,#2a0d12,#120609);border:4px solid #b91c1c;border-radius:14px;box-shadow:0 0 0 3px #000,0 0 40px #b91c1c88;text-align:center;animation:vamp-pop .2s ease-out}
-.vamp-arsenal h2{margin:0 0 .6rem;font:400 2rem/1 "Vamp Gothic",Georgia,serif;color:#fca5a5;letter-spacing:.04em}
+.vamp-arsenal{position:absolute;inset:0;margin:auto;width:min(620px,88%);height:fit-content;padding:1.6rem 2rem 1.3rem;background:linear-gradient(180deg,#2a0d12,#120609);border:5px solid #b91c1c;border-radius:18px;box-shadow:0 0 0 4px #000,0 0 60px #b91c1caa,0 0 0 100vmax #000a;text-align:center;animation:vamp-pop .2s ease-out;z-index:5}
+.vamp-paused{margin:0 0 .3rem!important;font-weight:900;letter-spacing:.2em;text-transform:uppercase;font-size:.95rem!important;color:#fde68a!important}
+.vamp-count{margin:.1rem 0 0;width:100%;display:flex;align-items:flex-end;justify-content:space-between;gap:.3rem;font-weight:800;font-size:.76rem;line-height:1.15;color:#e8d5c4;text-align:left}
+.vamp-count b{color:#fde68a;font-size:1rem;font-variant-numeric:tabular-nums}
+.vamp-arsenal h2{margin:0 0 1rem;font:400 clamp(2.2rem,5vw,3.2rem)/1 "Vamp Gothic",Georgia,serif;color:#fca5a5;letter-spacing:.04em}
 .vamp-arsenal ul{list-style:none;margin:0;padding:0;display:grid;gap:.45rem}
-.vamp-arsenal button{width:100%;display:flex;align-items:center;gap:.6rem;padding:.55rem .8rem;background:#1f0a0e;border:2px solid #5f0f17;border-radius:10px;color:#f5e6da;font-weight:900;font-size:1.1rem;cursor:pointer}
+.vamp-arsenal button{width:100%;display:flex;align-items:center;gap:.9rem;padding:.9rem 1.2rem;background:#1f0a0e;border:2px solid #5f0f17;border-radius:10px;color:#f5e6da;font-weight:900;font-size:clamp(1.2rem,2.6vw,1.6rem);cursor:pointer}
 .vamp-arsenal button em{margin-left:auto;font-style:normal;color:#fde68a}
 .vamp-arsenal button.vamp-sel{border-color:#fbbf24;box-shadow:0 0 0 2px #fbbf24,0 0 16px #fbbf2466;background:#3b0f16}
 .vamp-arsenal button.vamp-now b::after{content:" ✓";color:#86efac}
 .vamp-arsenal button:disabled{opacity:.4;cursor:not-allowed}
-.vamp-arsenal .vamp-ico{font-size:1.5rem}
-.vamp-arsenal p{margin:.6rem 0 0;font-size:.78rem;color:#c9a9a0}
+.vamp-arsenal .vamp-ico{font-size:2.2rem}
+.vamp-arsenal p{margin:.9rem 0 0;font-size:.95rem;color:#c9a9a0}
 .vamp-overlay{background:#06030899}
 .vamp-overlay .trepa-overlay-card{background:linear-gradient(180deg,#1f0a0f,#0d0508);border-color:#991b1b}
 .vamp-title{margin:0 0 .4rem!important;font:400 clamp(2.6rem,8vw,4.6rem)/1 "Vamp Gothic",Georgia,serif!important;letter-spacing:.06em;background:linear-gradient(#fecaca,#dc2626 45%,#450a0a 80%);-webkit-background-clip:text;background-clip:text;color:transparent;filter:drop-shadow(0 3px 0 #000) drop-shadow(0 0 12px #ff1e3c88)}

diff --git a/src/features/games/VampyriumGame.tsx b/src/features/games/VampyriumGame.tsx
@@ -189,7 +189,8 @@ export function Vampyrium() {
         {status === 'playing' && toast && <div key={toast.id} className={`${toast.big ? 'trepa-record' : 'trepa-toast'}${toast.bad ? ' vamp-bad' : ''}`} role="status">{toast.text}</div>}
         {status === 'playing' && hud.combo >= 2 && <div key={`c${hud.combo}`} className="vamp-combo" aria-live="polite">COMBO ×{hud.combo}</div>}
         {status === 'playing' && hud.menu && <div className="vamp-arsenal" role="dialog" aria-label="Armas">
-          <h2>⚔ Tus armas</h2>
+          <p className="vamp-paused">⏸ Juego en pausa</p>
+          <h2>⚔ Elegí tu arma</h2>
           <ul>
             {WEAPONS.map((w, i) => {
               const off = w === 'stakes' && hud.ammo <= 0;
@@ -238,7 +239,8 @@ export function Vampyrium() {
         <div className="trepa-stat vamp-kills" aria-label={`Vampiros: ${hud.total} de ${GOAL}`}>
           <span>Vampiros</span><strong data-testid="vamp-total">{hud.total}<small>/{GOAL}</small></strong>
           <i className="vamp-bar"><b style={{ width: `${Math.min(100, hud.total / GOAL * 100)}%` }} /></i>
-          <em>🧛 <b data-testid="vamp-walkers">{hud.walker}</b> · 🦇 <b data-testid="vamp-flyers">{hud.flyer}</b></em>
+          <p className="vamp-count">Vampiros: <b data-testid="vamp-walkers">{hud.walker}</b></p>
+          <p className="vamp-count">Vampiros voladores: <b data-testid="vamp-flyers">{hud.flyer}</b></p>
         </div>
         <div className="trepa-stat" aria-label={`Vida: ${hud.hp}`}><span>Vida</span><strong className="trepa-lives">{Array.from({ length: MAX_HP }, (_, i) => <b key={i} className={i < hud.hp ? '' : 'trepa-lost'}>♥</b>)}</strong></div>
         <div className="trepa-stat vamp-weapons"><span>Armas</span>

diff --git a/src/features/games/vampyrium.test.ts b/src/features/games/vampyrium.test.ts
@@ -37,8 +37,9 @@ describe('Vampyrium', () => {
     expect(g.kills.walker).toBe(1);
     expect(g.total).toBe(1);
     expect(g.corpses.length).toBe(1); // el esqueleto
-    run(g, 0.5);
+    run(g, 0.8);
     expect(g.corpses.length).toBe(0);
+    expect(g.drops.length).toBeGreaterThan(10); // la sangre que salpica
     expect(g.bones.length).toBeGreaterThan(5); // los huesos volando
     expect(g.sparks.length).toBeGreaterThan(10);
     expect(takeEvents(g).some(e => e.type === 'bones')).toBe(true);
@@ -175,6 +176,12 @@ describe('Vampyrium', () => {
     walker(g, 5.2); pressAttack(g); run(g, 0.4);
     expect(g.combo.n).toBe(2);
     expect(takeEvents(g).some(e => e.type === 'combo')).toBe(true);
+  });
+
+  it('salen tantos vampiros voladores como caminantes', () => {
+    const g = newGame(11); g.crateT = 1e9; g.player.inv = 1e9;
+    for (let i = 0; i < 40; i++) { g.spawnT = 0; run(g, 1 / 60); for (const v of [...g.vamps]) { g.vamps.splice(g.vamps.indexOf(v), 1); g.kills[v.kind]++; } }
+    expect(Math.abs(g.kills.walker - g.kills.flyer)).toBeLessThanOrEqual(1);
   });
 
   it('aparecen vampiros solos y de a más a medida que se matan', () => {
